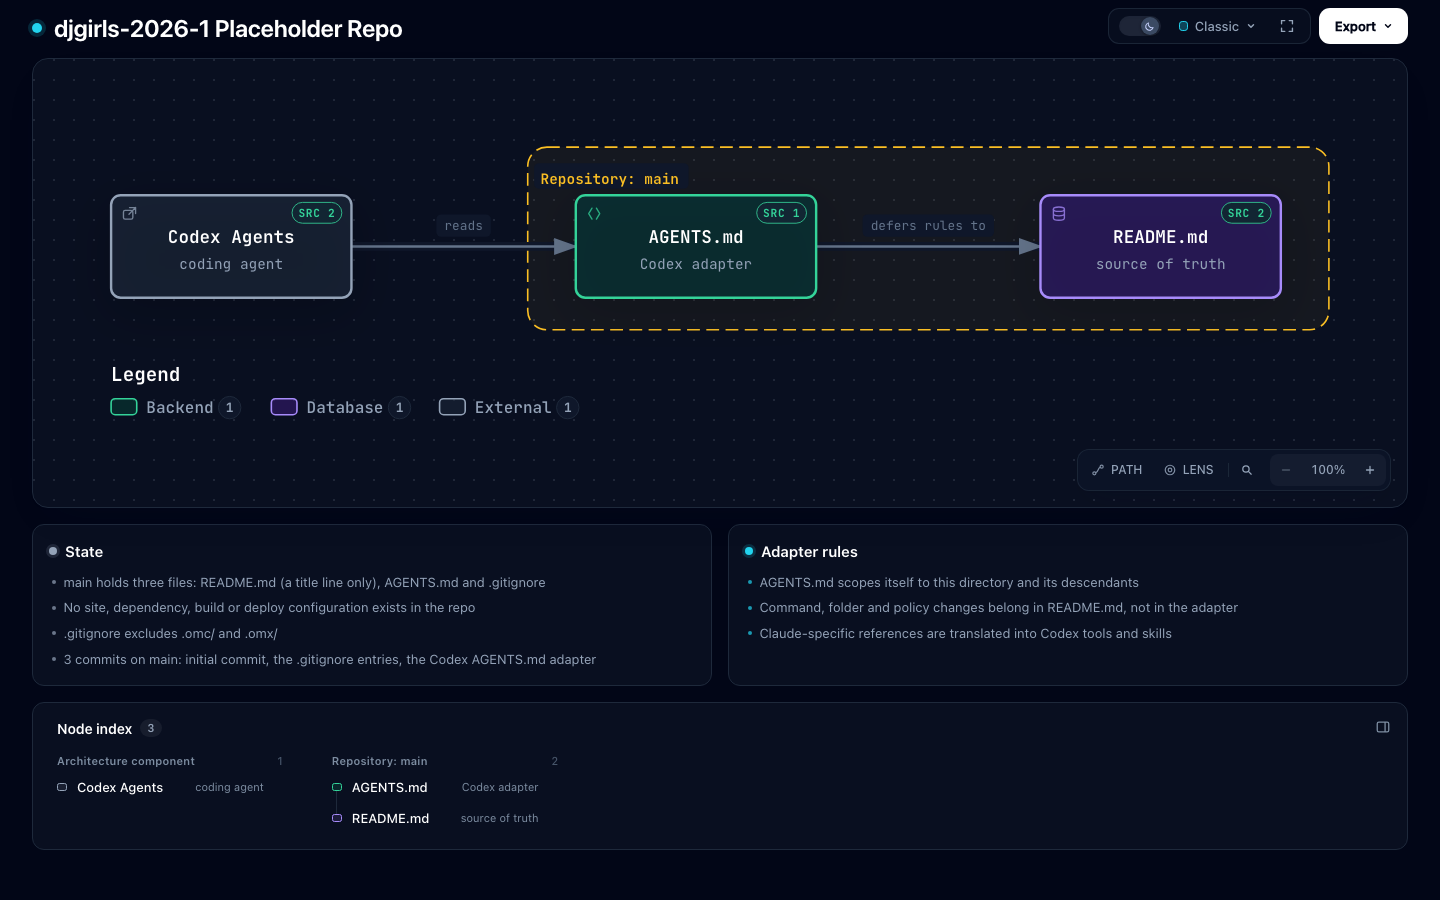
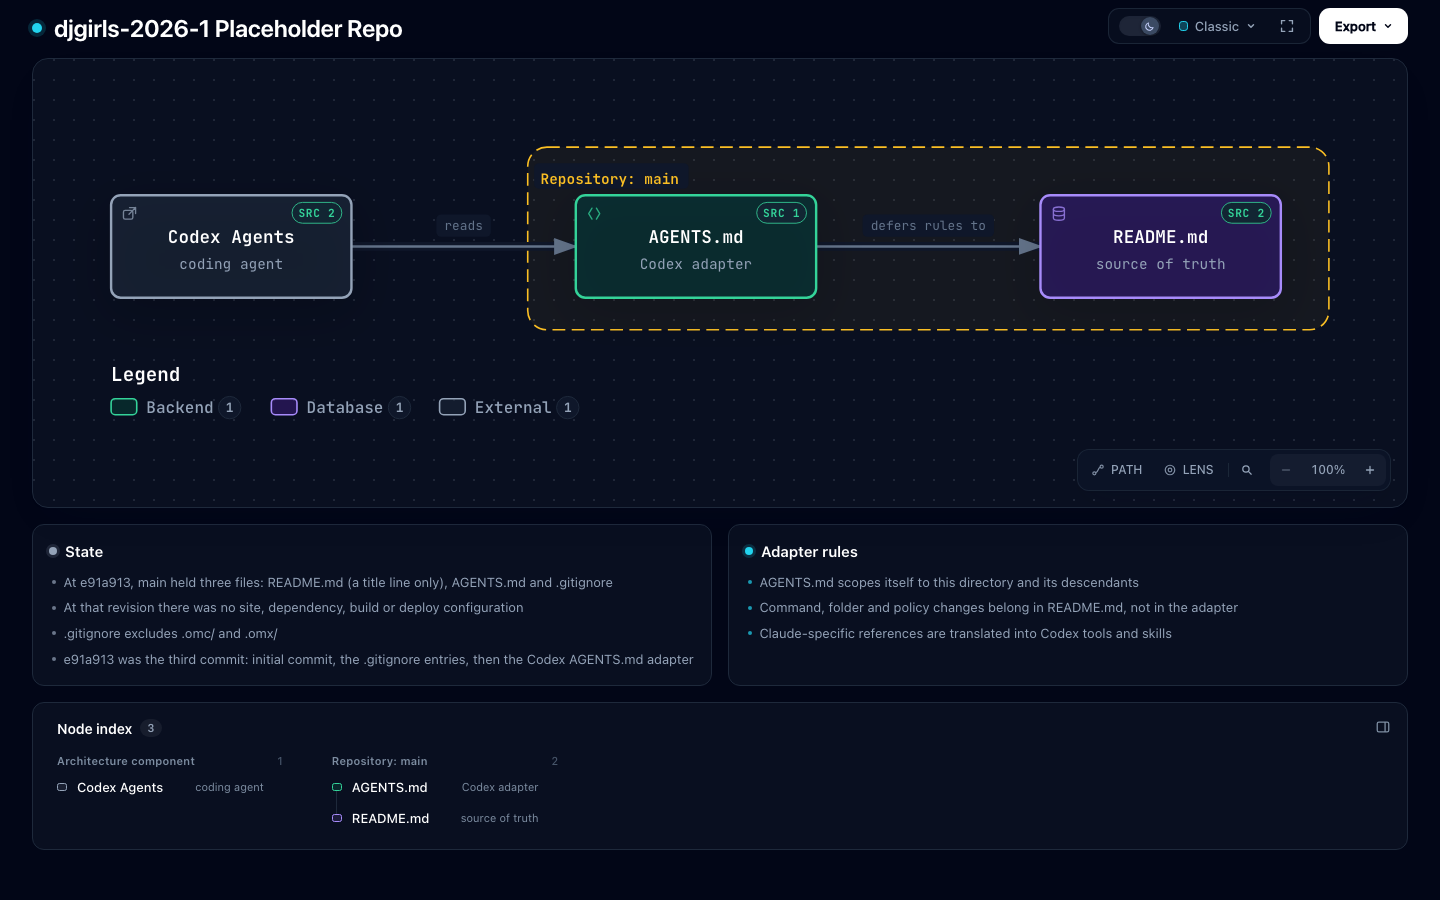
docs(archify): address pre-merge review findings
The State card said "main holds three files" and "3 commits on main",
which stop being true once this PR merges. The three items are now
anchored to the pinned revision e91a913 (files held, no site or build
configuration, third commit).

Gates: finalize (validate, deliver, check, browser-check) and
visual-check pass.

Changed region(s): [[0.0312, 0.6222, 0.4062, 0.6844], [0.0312, 0.7156, 0.4688, 0.7467]]

diff --git a/docs/djgirls-2026-1-rendered.html b/docs/djgirls-2026-1-rendered.html
@@ -5277,10 +5277,10 @@ OTHER DEALINGS IN THE FONT SOFTWARE.
           <h3>State</h3>
         </div>
         <ul>
-          <li>main holds three files: README.md (a title line only), AGENTS.md and .gitignore</li>
-          <li>No site, dependency, build or deploy configuration exists in the repo</li>
+          <li>At e91a913, main held three files: README.md (a title line only), AGENTS.md and .gitignore</li>
+          <li>At that revision there was no site, dependency, build or deploy configuration</li>
           <li>.gitignore excludes .omc/ and .omx/</li>
-          <li>3 commits on main: initial commit, the .gitignore entries, the Codex AGENTS.md adapter</li>
+          <li>e91a913 was the third commit: initial commit, the .gitignore entries, then the Codex AGENTS.md adapter</li>
         </ul>
       </div>
 
